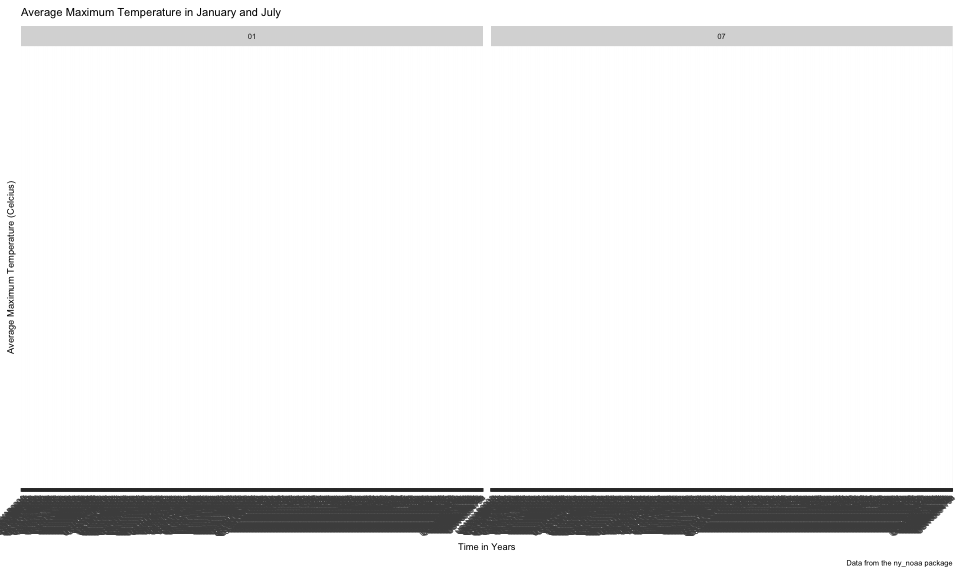
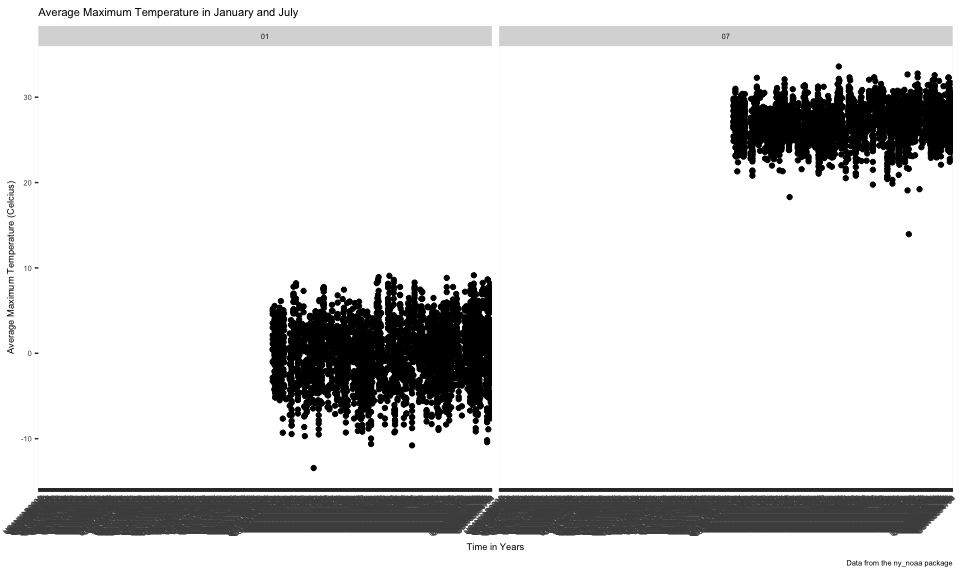
Editing problem 3

diff --git a/p8105_hw3_kb2977.md b/p8105_hw3_kb2977.md
@@ -87,7 +87,7 @@ state_plot = brfss_data %>%
     geom_line() +
     labs(
         title = "Observations in Each State",
-        x = "Time in years",
+        x = "Time in Years",
         y = "Number of Observations",
         caption = "Data from the brfss package"
     ) +
@@ -173,8 +173,8 @@ Directions: Write a short description of the dataset, noting the size and struct
 -   There were 131209 orders placed.
 -   The average number of items ordered in this dataset was 10.5527593.
 -   The user\_id with the most orders was 149753.
--   The item that was the most ordered was Banana.
--   Customers tend to place orders around `names(which.max(table(instacart$product_name)))` hour of the day.
+-   The most ordered item was Banana.
+-   Customers tend to place orders around the 14 hour of the day.
 
 ### Part 2: Answering questions using instacart\_data
 
@@ -275,6 +275,7 @@ Directions: Write a short description of the dataset, noting the size and struct
 -   The dataset included useful information about the weather station, date, temperature, precipitation, and snowfall.
 -   There were 10957 dates in which weather was observed.
 -   Weather information was gathered from 747 distinct stations.
+-   MISSING DATA
 
 ### Part 2: Answering questions using ny\_noaa datset
 
@@ -302,7 +303,7 @@ ave_temp =
   group_by(month, id, year) %>% 
   summarize(ave_max_temp = mean(tmax)) %>% 
   ggplot(aes(x = id, y = ave_max_temp)) +
-  geom_hex() +
+  geom_point() +
   facet_grid(~month) +
   theme(axis.text.x = element_text(angle = 45, hjust = 1), text = element_text(size = 7)) +
   labs(
@@ -314,15 +315,7 @@ ave_temp =
 ave_temp
 ```
 
-    ## Warning: Removed 7058 rows containing non-finite values (stat_binhex).
-
-    ## Warning: Computation failed in `stat_binhex()`:
-    ## Package `hexbin` required for `stat_binhex`.
-    ## Please install and try again.
-
-    ## Warning: Computation failed in `stat_binhex()`:
-    ## Package `hexbin` required for `stat_binhex`.
-    ## Please install and try again.
+    ## Warning: Removed 7058 rows containing missing values (geom_point).
 
 <img src="p8105_hw3_kb2977_files/figure-markdown_github/ave_temp-1.png" width="100%" />
 
@@ -351,7 +344,7 @@ snowfall_plot =
   ny_noaa_clean %>% 
   filter(snow < 100 & snow > 0) %>% 
   ggplot(aes(x = snow, y = year)) +
-  geom_density_ridges(alpha = .5, color = "blue") +
+  geom_density_ridges(alpha = .5, color = "blue", scale = 0.85) +
   labs(
       title = "Distribution of Snowfall by Year",
       x = "Snowfall (mm)",
